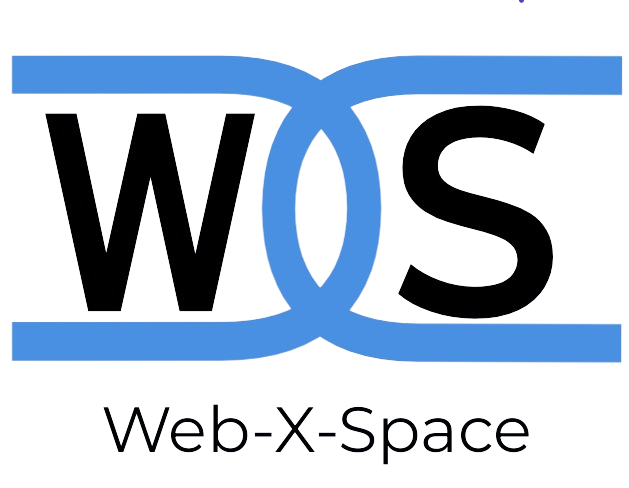
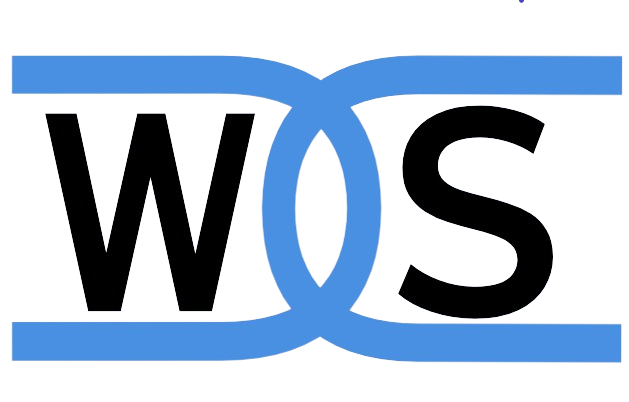
webxspace

diff --git a/index.html b/index.html
@@ -781,8 +781,9 @@ Web development has a number of pros: High earning potential, opportunity for gr
         <div class="row">
 
           <div class="col-lg-3 col-md-6 footer-contact">
-            <h3>Web-X-Space</h3>
-            <p>
+ <a href="index.html" style="display: block; border-style: none !important; border: 0 !important;" class="logo me-auto">
+ <img width="100" border="0" style="display: block; width: 100px;" src="https://webxspace22.github.io/webxspace/assets/img/web_x_space1.png" alt="" class="img-fluid"></a>           
+  <p>
               North East Avenue,First Floor,<br>
               Street 26A,100 ft road<br>
               Ayyappa Society, Madhapur<br>
